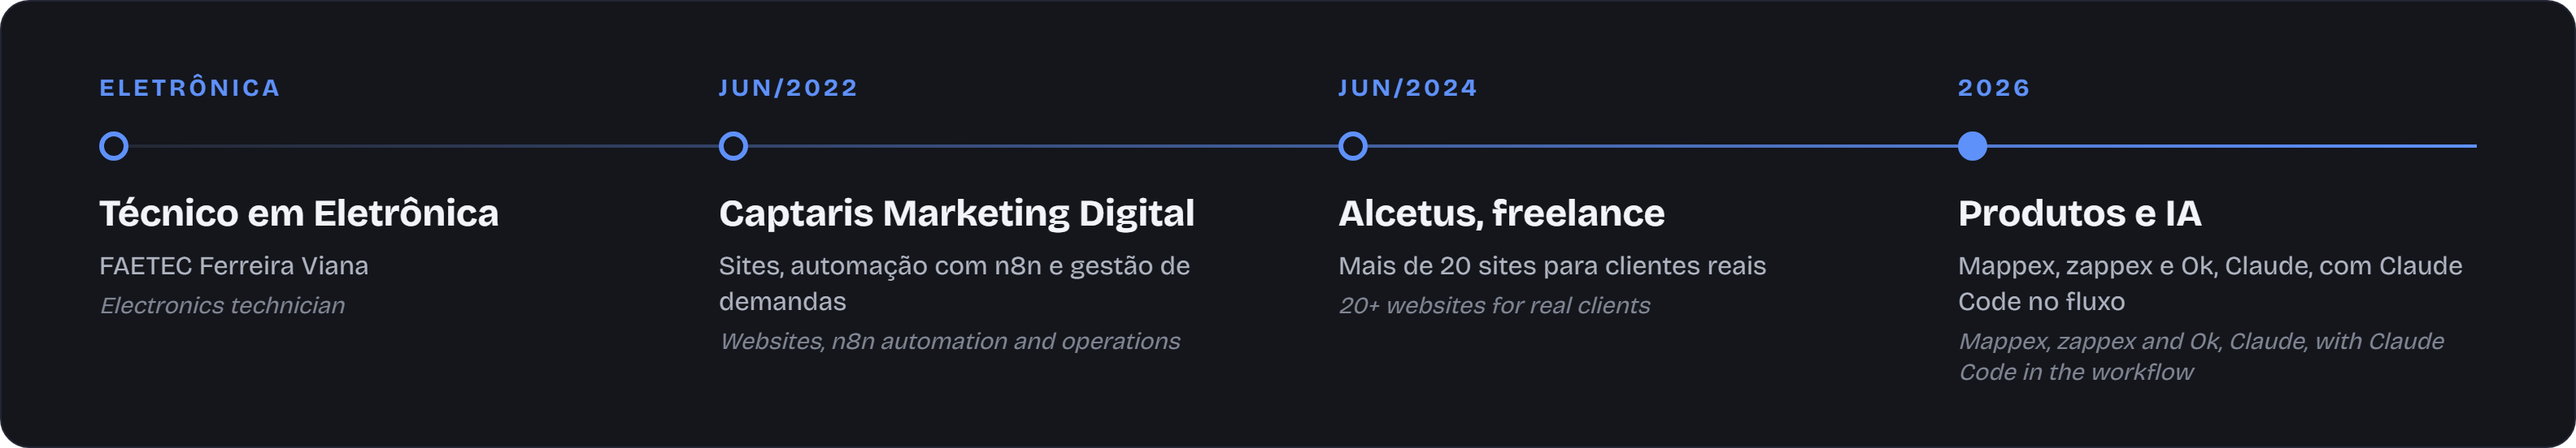
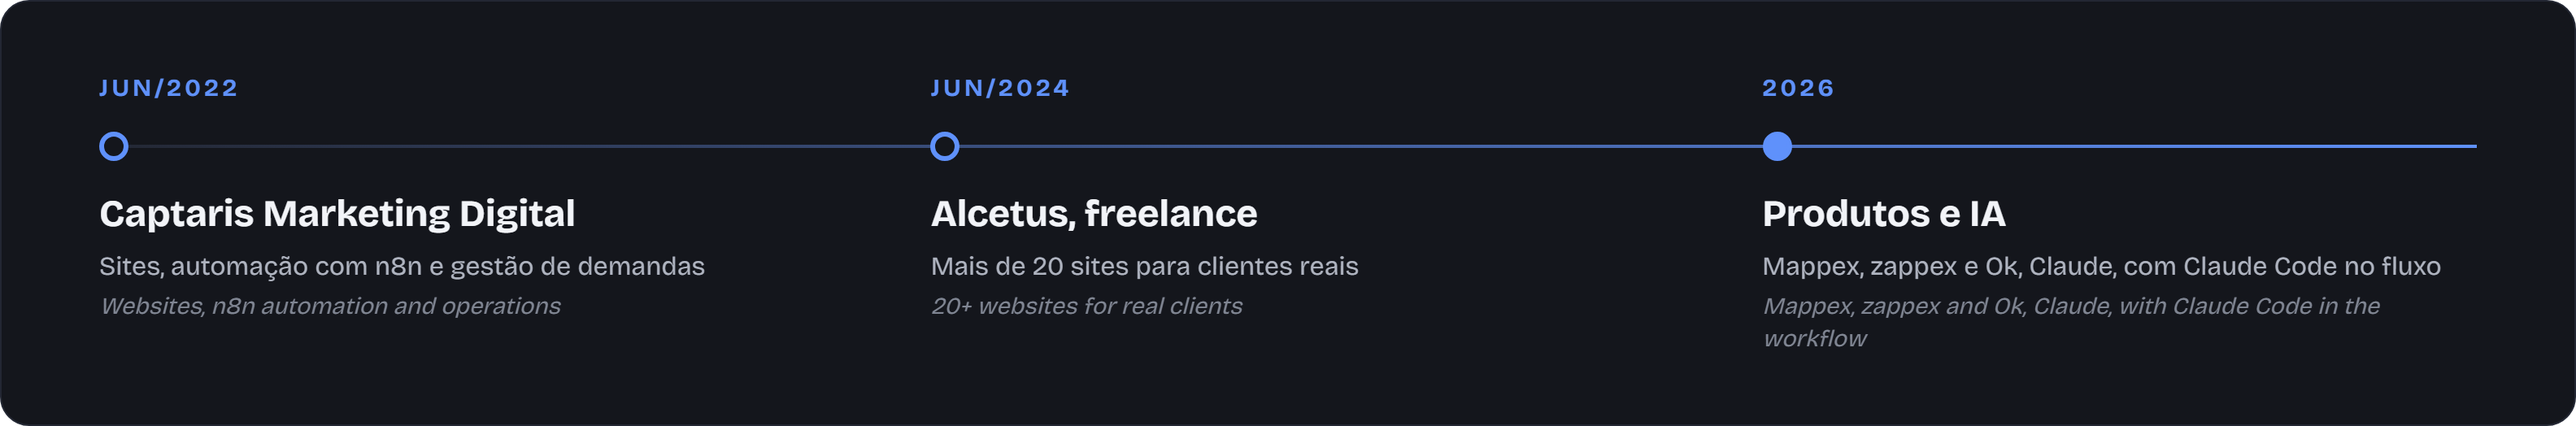
docs: perfil em texto clicavel com chips soltos, sem a etapa de eletronica

diff --git a/README.md b/README.md
@@ -7,22 +7,29 @@
 </p>
 
 <p align="center">
-  <img src="./assets/numbers.png" alt="17 mil testes automatizados, 20 cursos oficiais da Anthropic, 20 sites entregues e 1 extensão na Chrome Web Store" width="100%">
-</p>
-
-<p align="center">
-  <a href="https://joaocouto.alcetus.com">joaocouto.alcetus.com</a> &nbsp;·&nbsp;
-  <a href="mailto:joaopecouto77@gmail.com">joaopecouto77@gmail.com</a> &nbsp;·&nbsp;
-  <a href="https://chromewebstore.google.com/detail/gravador-de-reuni%C3%A3o-%E2%86%92-mp3/oblcnhlpjjipaodcifnignjfdbgmmkdg?hl=pt-br">Chrome Web Store</a>
+  <a href="https://joaocouto.alcetus.com"><img src="./assets/chips/contact-site.png" alt="Site: joaocouto.alcetus.com" height="34"></a>
+  <a href="mailto:joaopecouto77@gmail.com"><img src="./assets/chips/contact-email.png" alt="E-mail: joaopecouto77@gmail.com" height="34"></a>
+  <a href="https://chromewebstore.google.com/detail/gravador-de-reuni%C3%A3o-%E2%86%92-mp3/oblcnhlpjjipaodcifnignjfdbgmmkdg?hl=pt-br"><img src="./assets/chips/contact-chrome.png" alt="Chrome Web Store" height="34"></a>
 </p>
 
 ---
 
 ## Português
 
+**Desenvolvedor Web · React, TypeScript, Node.js, NestJS · IA aplicada (Claude Code, MCP)**
+
+<table>
+<tr>
+<td align="center" width="25%"><h2>17 mil+</h2>testes automatizados</td>
+<td align="center" width="25%"><h2>20+</h2>cursos oficiais da Anthropic</td>
+<td align="center" width="25%"><h2>20+</h2>sites entregues a clientes</td>
+<td align="center" width="25%"><h2>1</h2>extensão na Chrome Web Store</td>
+</tr>
+</table>
+
 ### Minha história
 
-Comecei pela eletrônica: sou técnico formado pela FAETEC Ferreira Viana. Em junho de 2022 entrei na Captaris, uma agência de marketing digital, para fazer sites. Pouco depois também automatizava o fluxo de demandas com n8n e ClickUp e coordenava o trabalho entre Jurídico, Financeiro e Operacional. Os sites entregues vieram com +20% na receita mensal, e a automação trouxe +45% de eficiência aos processos.
+Em junho de 2022 entrei na Captaris, uma agência de marketing digital, para fazer sites. Pouco depois também automatizava o fluxo de demandas com n8n e ClickUp e coordenava o trabalho entre Jurídico, Financeiro e Operacional. Os sites entregues vieram com +20% na receita mensal, e a automação trouxe +45% de eficiência aos processos.
 
 Em junho de 2024 passei a atender clientes por conta própria, sob a marca Alcetus: mais de 20 sites para indústria, setor automotivo, turismo, advocacia e comércio, do desenho ao deploy em VPS.
 
@@ -33,35 +40,86 @@ A IA nos meus produtos tem limite explícito. No Mappex, o modelo só escolhe en
 Hoje estou no 3º trimestre de Análise e Desenvolvimento de Sistemas e aberto a oportunidades como desenvolvedor.
 
 <p align="center">
-  <img src="./assets/timeline.png" alt="Linha do tempo: técnico em eletrônica, Captaris em 2022, Alcetus freelance em 2024, produtos e IA em 2026" width="100%">
+  <img src="./assets/timeline.png" alt="Linha do tempo: Captaris em 2022, Alcetus freelance em 2024, produtos e IA em 2026" width="100%">
 </p>
 
 ### Projetos
 
 <table>
 <tr>
-<td width="50%"><a href="https://github.com/Joaopecouto/mappex-case"><img src="./assets/card-mappex.png" alt="Mappex: SaaS de leads B2B com CRM no WhatsApp" width="100%"></a></td>
-<td width="50%"><a href="https://github.com/Joaopecouto/zappex-case"><img src="./assets/card-zappex.png" alt="zappex: CRM Kanban dentro do WhatsApp Web" width="100%"></a></td>
+<td width="50%" valign="top">
+<b><a href="https://github.com/Joaopecouto/mappex-case">Mappex, Gerador de Leads</a></b> &nbsp;<sub>Demo ao vivo</sub><br>
+SaaS de leads B2B com CRM no WhatsApp, mapa interativo e uma IA que só escolhe entre bairros reais do OpenStreetMap. Reescrito de Supabase para backend próprio em NestJS.<br><br>
+<img src="./assets/chips/react.png" alt="React" height="28"> <img src="./assets/chips/typescript.png" alt="TypeScript" height="28"> <img src="./assets/chips/nestjs.png" alt="NestJS" height="28"> <img src="./assets/chips/postgresql.png" alt="PostgreSQL" height="28"> <img src="./assets/chips/leaflet.png" alt="Leaflet" height="28"><br><br>
+<a href="https://github.com/Joaopecouto/mappex-case">Case study</a> · <a href="http://gerador-de-leads.alcetus.com">Demo</a>
+</td>
+<td width="50%" valign="top">
+<b><a href="https://github.com/Joaopecouto/zappex-case">zappex</a></b> &nbsp;<sub>Case study</sub><br>
+CRM Kanban dentro do WhatsApp Web, em extensão do Chrome com backend NestJS, cobrança no Stripe e mais de 6 mil testes automatizados.<br><br>
+<img src="./assets/chips/react.png" alt="React" height="28"> <img src="./assets/chips/typescript.png" alt="TypeScript" height="28"> <img src="./assets/chips/nestjs.png" alt="NestJS" height="28"> <img src="./assets/chips/stripe.png" alt="Stripe" height="28"> <img src="./assets/chips/chrome-extension.png" alt="Chrome extension" height="28"> <img src="./assets/chips/sentry.png" alt="Sentry" height="28"><br><br>
+<a href="https://github.com/Joaopecouto/zappex-case">Case study</a>
+</td>
 </tr>
 <tr>
-<td width="50%"><a href="https://github.com/Joaopecouto/ok-claude-case"><img src="./assets/card-ok-claude.png" alt="Ok, Claude: agenda desktop com assistente de IA" width="100%"></a></td>
-<td width="50%"><a href="https://github.com/Joaopecouto/TeamsAudioRecorder"><img src="./assets/card-gravador.png" alt="Gravador de Reunião: extensão para Meet e Teams" width="100%"></a></td>
+<td width="50%" valign="top">
+<b><a href="https://github.com/Joaopecouto/ok-claude-case">Ok, Claude</a></b> &nbsp;<sub>Em desenvolvimento</sub><br>
+Agenda desktop para Windows com assistente de IA que não inventa informação: fora do app, só com fonte e link. Contrato Rust e TypeScript gerado e SQLite com backup.<br><br>
+<img src="./assets/chips/tauri.png" alt="Tauri" height="28"> <img src="./assets/chips/rust.png" alt="Rust" height="28"> <img src="./assets/chips/react.png" alt="React" height="28"> <img src="./assets/chips/sqlite.png" alt="SQLite" height="28"> <img src="./assets/chips/claude-api.png" alt="Claude API" height="28"><br><br>
+<a href="https://github.com/Joaopecouto/ok-claude-case">Case study</a>
+</td>
+<td width="50%" valign="top">
+<b><a href="https://github.com/Joaopecouto/TeamsAudioRecorder">Gravador de Reunião</a></b> &nbsp;<sub>Chrome Web Store</sub><br>
+Extensão que grava o áudio, transcreve com identificação de quem fala e resume reuniões do Google Meet e do Microsoft Teams. O áudio fica na máquina.<br><br>
+<img src="./assets/chips/manifest-v3.png" alt="Manifest V3" height="28"> <img src="./assets/chips/javascript.png" alt="JavaScript" height="28"> <img src="./assets/chips/gemini.png" alt="Gemini API" height="28"><br><br>
+<a href="https://github.com/Joaopecouto/TeamsAudioRecorder">Código</a> · <a href="https://chromewebstore.google.com/detail/gravador-de-reuni%C3%A3o-%E2%86%92-mp3/oblcnhlpjjipaodcifnignjfdbgmmkdg?hl=pt-br">Chrome Web Store</a>
+</td>
 </tr>
 <tr>
-<td width="50%"><a href="https://github.com/Joaopecouto/gym-alcetus"><img src="./assets/card-gym.png" alt="Gym Alcetus: app de treino PWA" width="100%"></a></td>
-<td width="50%"><a href="https://github.com/Joaopecouto/petala-dourada"><img src="./assets/card-petala.png" alt="Pétala Dourada: e-commerce de moda feminina" width="100%"></a></td>
+<td width="50%" valign="top">
+<b><a href="https://github.com/Joaopecouto/gym-alcetus">Gym Alcetus</a></b> &nbsp;<sub>Demo ao vivo</sub><br>
+App de treino (PWA) com métricas, gráficos e heatmap muscular.<br><br>
+<img src="./assets/chips/react.png" alt="React" height="28"> <img src="./assets/chips/fastify.png" alt="Fastify" height="28"> <img src="./assets/chips/sqlite.png" alt="SQLite" height="28"> <img src="./assets/chips/typescript.png" alt="TypeScript" height="28"><br><br>
+<a href="https://github.com/Joaopecouto/gym-alcetus">Código</a> · <a href="https://gym.alcetus.com">Demo</a>
+</td>
+<td width="50%" valign="top">
+<b><a href="https://github.com/Joaopecouto/petala-dourada">Pétala Dourada</a></b> &nbsp;<sub>Demo</sub><br>
+E-commerce de moda feminina.<br><br>
+<img src="./assets/chips/nextjs.png" alt="Next.js" height="28"> <img src="./assets/chips/react.png" alt="React" height="28"> <img src="./assets/chips/woocommerce.png" alt="WooCommerce" height="28"><br><br>
+<a href="https://github.com/Joaopecouto/petala-dourada">Case study</a> · <a href="https://dev.petaladourada.com.br">Demo</a>
+</td>
 </tr>
 <tr>
-<td width="50%"><a href="https://github.com/Joaopecouto/sites-clientes"><img src="./assets/card-sites.png" alt="Sites de clientes: mais de 20 sites entregues" width="100%"></a></td>
-<td width="50%"><a href="https://github.com/Joaopecouto/DevRecap"><img src="./assets/card-devrecap.png" alt="DevRecap: app de bandeja do Windows que resume o dia de código" width="100%"></a></td>
+<td width="50%" valign="top">
+<b><a href="https://github.com/Joaopecouto/sites-clientes">Sites de clientes</a></b> &nbsp;<sub>Portfólio</sub><br>
+Mais de 20 sites para indústria, automotivo, turismo, advocacia e comércio: Vetek, Catita, CEMC, MPA Máquinas, Rebecca Amorim e outros.<br><br>
+<img src="./assets/chips/wordpress.png" alt="WordPress" height="28"> <img src="./assets/chips/elementor.png" alt="Elementor" height="28"> <img src="./assets/chips/html5.png" alt="HTML5" height="28"> <img src="./assets/chips/figma.png" alt="Figma" height="28"><br><br>
+<a href="https://github.com/Joaopecouto/sites-clientes">Ver sites</a> · <a href="https://joaocouto.alcetus.com">Portfólio</a>
+</td>
+<td width="50%" valign="top">
+<b><a href="https://github.com/Joaopecouto/DevRecap">DevRecap</a></b> &nbsp;<sub>Código aberto</sub><br>
+App de bandeja do Windows que varre os repositórios no fim do dia e resume o que foi feito.<br><br>
+<img src="./assets/chips/python.png" alt="Python" height="28"> <img src="./assets/chips/pyinstaller.png" alt="PyInstaller" height="28"><br><br>
+<a href="https://github.com/Joaopecouto/DevRecap">Código</a>
+</td>
 </tr>
 </table>
 
-Demos: [Mappex](http://gerador-de-leads.alcetus.com) · [Gym Alcetus](https://gym.alcetus.com) · [Pétala Dourada](https://dev.petaladourada.com.br) · [Gravador de Reunião na Chrome Web Store](https://chromewebstore.google.com/detail/gravador-de-reuni%C3%A3o-%E2%86%92-mp3/oblcnhlpjjipaodcifnignjfdbgmmkdg?hl=pt-br)
-
 ### Tecnologias
 
-<img src="./assets/stack.png" alt="Tecnologias: Claude Code, MCP, Claude API, Gemini API, React, TypeScript, Tailwind CSS, Node.js, NestJS, Fastify, Prisma, PostgreSQL, SQLite, Redis, Stripe, Rust, Tauri, Vitest, Playwright, Docker, Nginx, Cloudflare, n8n, WordPress, Elementor, Figma" width="100%">
+**IA**<br>
+<img src="./assets/chips/claude.png" alt="Claude Code" height="32"> <img src="./assets/chips/mcp.png" alt="MCP" height="32"> <img src="./assets/chips/claude-api.png" alt="Claude API" height="32"> <img src="./assets/chips/gemini.png" alt="Gemini API" height="32"> <img src="./assets/chips/groq.png" alt="Groq" height="32">
+
+**Front-end**<br>
+<img src="./assets/chips/react.png" alt="React" height="32"> <img src="./assets/chips/typescript.png" alt="TypeScript" height="32"> <img src="./assets/chips/javascript.png" alt="JavaScript" height="32"> <img src="./assets/chips/tailwind.png" alt="Tailwind CSS" height="32"> <img src="./assets/chips/vite.png" alt="Vite" height="32"> <img src="./assets/chips/html5.png" alt="HTML5" height="32"> <img src="./assets/chips/nextjs.png" alt="Next.js" height="32">
+
+**Back-end e desktop**<br>
+<img src="./assets/chips/nodejs.png" alt="Node.js" height="32"> <img src="./assets/chips/nestjs.png" alt="NestJS" height="32"> <img src="./assets/chips/fastify.png" alt="Fastify" height="32"> <img src="./assets/chips/prisma.png" alt="Prisma" height="32"> <img src="./assets/chips/postgresql.png" alt="PostgreSQL" height="32"> <img src="./assets/chips/sqlite.png" alt="SQLite" height="32"> <img src="./assets/chips/redis.png" alt="Redis" height="32"> <img src="./assets/chips/stripe.png" alt="Stripe" height="32"> <img src="./assets/chips/rust.png" alt="Rust" height="32"> <img src="./assets/chips/tauri.png" alt="Tauri" height="32"> <img src="./assets/chips/python.png" alt="Python" height="32">
+
+**Testes e DevOps**<br>
+<img src="./assets/chips/vitest.png" alt="Vitest" height="32"> <img src="./assets/chips/playwright.png" alt="Playwright" height="32"> <img src="./assets/chips/github-actions.png" alt="GitHub Actions" height="32"> <img src="./assets/chips/docker.png" alt="Docker" height="32"> <img src="./assets/chips/nginx.png" alt="Nginx" height="32"> <img src="./assets/chips/cloudflare.png" alt="Cloudflare" height="32"> <img src="./assets/chips/git.png" alt="Git" height="32"> <img src="./assets/chips/n8n.png" alt="n8n" height="32"> <img src="./assets/chips/sentry.png" alt="Sentry" height="32">
+
+**Sites**<br>
+<img src="./assets/chips/wordpress.png" alt="WordPress" height="32"> <img src="./assets/chips/elementor.png" alt="Elementor" height="32"> <img src="./assets/chips/figma.png" alt="Figma" height="32">
 
 ### Experiência
 
@@ -74,17 +132,30 @@ Demos: [Mappex](http://gerador-de-leads.alcetus.com) · [Gym Alcetus](https://gy
 - **Anthropic, mais de 20 cursos oficiais (2026):** Claude 101, Claude Code 101, Claude Code in action, Claude Cowork, Claude Tag, Claude Platform 101, Model Context Protocol (introdução e tópicos avançados), Introduction to subagents, Introduction to agent skills, Building with the Claude API, Tool use with the Messages API, Introduction to evals, Claude with Amazon Bedrock, Claude on Google Cloud, AI Fluency, Building effective human-agent teams, The AI-native SDLC playbook.
 - **Outros:** Modelo de Governança e Gestão (gestaopublicagov.br, 2026), Produtividade e Organização e Técnicas e Ferramentas para Projetos (Descomplica) e Comunidade Celados.
 
-### Contato
-
-[joaocouto.alcetus.com](https://joaocouto.alcetus.com) · [joaopecouto77@gmail.com](mailto:joaopecouto77@gmail.com) · Rio de Janeiro, Brasil
+<p align="center">
+  <a href="https://joaocouto.alcetus.com"><img src="./assets/chips/contact-site.png" alt="Site: joaocouto.alcetus.com" height="34"></a>
+  <a href="mailto:joaopecouto77@gmail.com"><img src="./assets/chips/contact-email.png" alt="E-mail: joaopecouto77@gmail.com" height="34"></a>
+  <a href="https://chromewebstore.google.com/detail/gravador-de-reuni%C3%A3o-%E2%86%92-mp3/oblcnhlpjjipaodcifnignjfdbgmmkdg?hl=pt-br"><img src="./assets/chips/contact-chrome.png" alt="Chrome Web Store" height="34"></a>
+</p>
 
 ---
 
 ## English
 
+**Web Developer · React, TypeScript, Node.js, NestJS · Applied AI (Claude Code, MCP)**
+
+<table>
+<tr>
+<td align="center" width="25%"><h2>17k+</h2>automated tests</td>
+<td align="center" width="25%"><h2>20+</h2>official Anthropic courses</td>
+<td align="center" width="25%"><h2>20+</h2>client websites delivered</td>
+<td align="center" width="25%"><h2>1</h2>Chrome Web Store extension</td>
+</tr>
+</table>
+
 ### My story
 
-I started in electronics: I am a certified technician from FAETEC Ferreira Viana. In June 2022 I joined Captaris, a digital marketing agency, to build websites. Soon after I was also automating the request workflow with n8n and ClickUp and coordinating work between the Legal, Finance and Operations teams. The websites shipped with +20% monthly revenue, and the automation brought +45% efficiency to the processes.
+In June 2022 I joined Captaris, a digital marketing agency, to build websites. Soon after I was also automating the request workflow with n8n and ClickUp and coordinating work between the Legal, Finance and Operations teams. The websites shipped with +20% monthly revenue, and the automation brought +45% efficiency to the processes.
 
 In June 2024 I started serving clients on my own under the Alcetus brand: 20+ websites for industrial, automotive, tourism, law and retail businesses, from design to VPS deployment.
 
@@ -94,36 +165,83 @@ AI in my products has explicit limits. In Mappex, the model only picks from real
 
 Today I am in the 3rd term of Systems Analysis and Development and open to opportunities as a developer.
 
-<p align="center">
-  <img src="./assets/timeline.png" alt="Timeline: electronics technician, Captaris in 2022, Alcetus freelance in 2024, products and AI in 2026" width="100%">
-</p>
-
 ### Projects
 
 <table>
 <tr>
-<td width="50%"><a href="https://github.com/Joaopecouto/mappex-case"><img src="./assets/card-mappex.png" alt="Mappex: B2B lead-gen SaaS with WhatsApp CRM" width="100%"></a></td>
-<td width="50%"><a href="https://github.com/Joaopecouto/zappex-case"><img src="./assets/card-zappex.png" alt="zappex: Kanban CRM inside WhatsApp Web" width="100%"></a></td>
+<td width="50%" valign="top">
+<b><a href="https://github.com/Joaopecouto/mappex-case">Mappex, Lead Generator</a></b> &nbsp;<sub>Live demo</sub><br>
+B2B lead-gen SaaS with a WhatsApp CRM, an interactive map and an AI that only picks from real OpenStreetMap neighborhoods. Rewritten from Supabase to its own NestJS backend.<br><br>
+<img src="./assets/chips/react.png" alt="React" height="28"> <img src="./assets/chips/typescript.png" alt="TypeScript" height="28"> <img src="./assets/chips/nestjs.png" alt="NestJS" height="28"> <img src="./assets/chips/postgresql.png" alt="PostgreSQL" height="28"> <img src="./assets/chips/leaflet.png" alt="Leaflet" height="28"><br><br>
+<a href="https://github.com/Joaopecouto/mappex-case">Case study</a> · <a href="http://gerador-de-leads.alcetus.com">Demo</a>
+</td>
+<td width="50%" valign="top">
+<b><a href="https://github.com/Joaopecouto/zappex-case">zappex</a></b> &nbsp;<sub>Case study</sub><br>
+Kanban CRM inside WhatsApp Web, built as a Chrome extension with a NestJS backend, Stripe billing and 6,000+ automated tests.<br><br>
+<img src="./assets/chips/react.png" alt="React" height="28"> <img src="./assets/chips/typescript.png" alt="TypeScript" height="28"> <img src="./assets/chips/nestjs.png" alt="NestJS" height="28"> <img src="./assets/chips/stripe.png" alt="Stripe" height="28"> <img src="./assets/chips/chrome-extension.png" alt="Chrome extension" height="28"> <img src="./assets/chips/sentry.png" alt="Sentry" height="28"><br><br>
+<a href="https://github.com/Joaopecouto/zappex-case">Case study</a>
+</td>
 </tr>
 <tr>
-<td width="50%"><a href="https://github.com/Joaopecouto/ok-claude-case"><img src="./assets/card-ok-claude.png" alt="Ok, Claude: desktop planner with an AI assistant" width="100%"></a></td>
-<td width="50%"><a href="https://github.com/Joaopecouto/TeamsAudioRecorder"><img src="./assets/card-gravador.png" alt="Meeting Recorder: extension for Meet and Teams" width="100%"></a></td>
+<td width="50%" valign="top">
+<b><a href="https://github.com/Joaopecouto/ok-claude-case">Ok, Claude</a></b> &nbsp;<sub>In development</sub><br>
+Windows desktop planner with an AI assistant that does not make things up: outside the app, only with a source and a link. Generated Rust and TypeScript contract, SQLite with backups.<br><br>
+<img src="./assets/chips/tauri.png" alt="Tauri" height="28"> <img src="./assets/chips/rust.png" alt="Rust" height="28"> <img src="./assets/chips/react.png" alt="React" height="28"> <img src="./assets/chips/sqlite.png" alt="SQLite" height="28"> <img src="./assets/chips/claude-api.png" alt="Claude API" height="28"><br><br>
+<a href="https://github.com/Joaopecouto/ok-claude-case">Case study</a>
+</td>
+<td width="50%" valign="top">
+<b><a href="https://github.com/Joaopecouto/TeamsAudioRecorder">Meeting Recorder</a></b> &nbsp;<sub>Chrome Web Store</sub><br>
+Extension that records audio, transcribes with speaker identification and summarizes Google Meet and Microsoft Teams meetings. Audio stays on your machine.<br><br>
+<img src="./assets/chips/manifest-v3.png" alt="Manifest V3" height="28"> <img src="./assets/chips/javascript.png" alt="JavaScript" height="28"> <img src="./assets/chips/gemini.png" alt="Gemini API" height="28"><br><br>
+<a href="https://github.com/Joaopecouto/TeamsAudioRecorder">Code</a> · <a href="https://chromewebstore.google.com/detail/gravador-de-reuni%C3%A3o-%E2%86%92-mp3/oblcnhlpjjipaodcifnignjfdbgmmkdg?hl=en">Chrome Web Store</a>
+</td>
 </tr>
 <tr>
-<td width="50%"><a href="https://github.com/Joaopecouto/gym-alcetus"><img src="./assets/card-gym.png" alt="Gym Alcetus: workout tracker PWA" width="100%"></a></td>
-<td width="50%"><a href="https://github.com/Joaopecouto/petala-dourada"><img src="./assets/card-petala.png" alt="Pétala Dourada: women's fashion e-commerce" width="100%"></a></td>
+<td width="50%" valign="top">
+<b><a href="https://github.com/Joaopecouto/gym-alcetus">Gym Alcetus</a></b> &nbsp;<sub>Live demo</sub><br>
+Workout tracker PWA with metrics, charts and a muscle heatmap.<br><br>
+<img src="./assets/chips/react.png" alt="React" height="28"> <img src="./assets/chips/fastify.png" alt="Fastify" height="28"> <img src="./assets/chips/sqlite.png" alt="SQLite" height="28"> <img src="./assets/chips/typescript.png" alt="TypeScript" height="28"><br><br>
+<a href="https://github.com/Joaopecouto/gym-alcetus">Code</a> · <a href="https://gym.alcetus.com">Demo</a>
+</td>
+<td width="50%" valign="top">
+<b><a href="https://github.com/Joaopecouto/petala-dourada">Pétala Dourada</a></b> &nbsp;<sub>Demo</sub><br>
+Women's fashion e-commerce.<br><br>
+<img src="./assets/chips/nextjs.png" alt="Next.js" height="28"> <img src="./assets/chips/react.png" alt="React" height="28"> <img src="./assets/chips/woocommerce.png" alt="WooCommerce" height="28"><br><br>
+<a href="https://github.com/Joaopecouto/petala-dourada">Case study</a> · <a href="https://dev.petaladourada.com.br">Demo</a>
+</td>
 </tr>
 <tr>
-<td width="50%"><a href="https://github.com/Joaopecouto/sites-clientes"><img src="./assets/card-sites.png" alt="Client websites: 20+ websites delivered" width="100%"></a></td>
-<td width="50%"><a href="https://github.com/Joaopecouto/DevRecap"><img src="./assets/card-devrecap.png" alt="DevRecap: Windows tray app that summarizes your coding day" width="100%"></a></td>
+<td width="50%" valign="top">
+<b><a href="https://github.com/Joaopecouto/sites-clientes">Client websites</a></b> &nbsp;<sub>Portfolio</sub><br>
+20+ websites for industry, automotive, tourism, legal and retail: Vetek, Catita, CEMC, MPA Máquinas, Rebecca Amorim and more.<br><br>
+<img src="./assets/chips/wordpress.png" alt="WordPress" height="28"> <img src="./assets/chips/elementor.png" alt="Elementor" height="28"> <img src="./assets/chips/html5.png" alt="HTML5" height="28"> <img src="./assets/chips/figma.png" alt="Figma" height="28"><br><br>
+<a href="https://github.com/Joaopecouto/sites-clientes">See the sites</a> · <a href="https://joaocouto.alcetus.com">Portfolio</a>
+</td>
+<td width="50%" valign="top">
+<b><a href="https://github.com/Joaopecouto/DevRecap">DevRecap</a></b> &nbsp;<sub>Open source</sub><br>
+Windows tray app that scans your repositories at the end of the day and summarizes what you did.<br><br>
+<img src="./assets/chips/python.png" alt="Python" height="28"> <img src="./assets/chips/pyinstaller.png" alt="PyInstaller" height="28"><br><br>
+<a href="https://github.com/Joaopecouto/DevRecap">Code</a>
+</td>
 </tr>
 </table>
 
-Demos: [Mappex](http://gerador-de-leads.alcetus.com) · [Gym Alcetus](https://gym.alcetus.com) · [Pétala Dourada](https://dev.petaladourada.com.br) · [Meeting Recorder on the Chrome Web Store](https://chromewebstore.google.com/detail/gravador-de-reuni%C3%A3o-%E2%86%92-mp3/oblcnhlpjjipaodcifnignjfdbgmmkdg?hl=en)
-
 ### Tech stack
 
-<img src="./assets/stack.png" alt="Tech stack: Claude Code, MCP, Claude API, Gemini API, React, TypeScript, Tailwind CSS, Node.js, NestJS, Fastify, Prisma, PostgreSQL, SQLite, Redis, Stripe, Rust, Tauri, Vitest, Playwright, Docker, Nginx, Cloudflare, n8n, WordPress, Elementor, Figma" width="100%">
+**AI**<br>
+<img src="./assets/chips/claude.png" alt="Claude Code" height="32"> <img src="./assets/chips/mcp.png" alt="MCP" height="32"> <img src="./assets/chips/claude-api.png" alt="Claude API" height="32"> <img src="./assets/chips/gemini.png" alt="Gemini API" height="32"> <img src="./assets/chips/groq.png" alt="Groq" height="32">
+
+**Front-end**<br>
+<img src="./assets/chips/react.png" alt="React" height="32"> <img src="./assets/chips/typescript.png" alt="TypeScript" height="32"> <img src="./assets/chips/javascript.png" alt="JavaScript" height="32"> <img src="./assets/chips/tailwind.png" alt="Tailwind CSS" height="32"> <img src="./assets/chips/vite.png" alt="Vite" height="32"> <img src="./assets/chips/html5.png" alt="HTML5" height="32"> <img src="./assets/chips/nextjs.png" alt="Next.js" height="32">
+
+**Back-end and desktop**<br>
+<img src="./assets/chips/nodejs.png" alt="Node.js" height="32"> <img src="./assets/chips/nestjs.png" alt="NestJS" height="32"> <img src="./assets/chips/fastify.png" alt="Fastify" height="32"> <img src="./assets/chips/prisma.png" alt="Prisma" height="32"> <img src="./assets/chips/postgresql.png" alt="PostgreSQL" height="32"> <img src="./assets/chips/sqlite.png" alt="SQLite" height="32"> <img src="./assets/chips/redis.png" alt="Redis" height="32"> <img src="./assets/chips/stripe.png" alt="Stripe" height="32"> <img src="./assets/chips/rust.png" alt="Rust" height="32"> <img src="./assets/chips/tauri.png" alt="Tauri" height="32"> <img src="./assets/chips/python.png" alt="Python" height="32">
+
+**Testing and DevOps**<br>
+<img src="./assets/chips/vitest.png" alt="Vitest" height="32"> <img src="./assets/chips/playwright.png" alt="Playwright" height="32"> <img src="./assets/chips/github-actions.png" alt="GitHub Actions" height="32"> <img src="./assets/chips/docker.png" alt="Docker" height="32"> <img src="./assets/chips/nginx.png" alt="Nginx" height="32"> <img src="./assets/chips/cloudflare.png" alt="Cloudflare" height="32"> <img src="./assets/chips/git.png" alt="Git" height="32"> <img src="./assets/chips/n8n.png" alt="n8n" height="32"> <img src="./assets/chips/sentry.png" alt="Sentry" height="32">
+
+**Websites**<br>
+<img src="./assets/chips/wordpress.png" alt="WordPress" height="32"> <img src="./assets/chips/elementor.png" alt="Elementor" height="32"> <img src="./assets/chips/figma.png" alt="Figma" height="32">
 
 ### Experience
 
@@ -136,6 +254,8 @@ Demos: [Mappex](http://gerador-de-leads.alcetus.com) · [Gym Alcetus](https://gy
 - **Anthropic, 20+ official courses (2026):** Claude 101, Claude Code 101, Claude Code in action, Claude Cowork, Claude Tag, Claude Platform 101, Model Context Protocol (introduction and advanced topics), Introduction to subagents, Introduction to agent skills, Building with the Claude API, Tool use with the Messages API, Introduction to evals, Claude with Amazon Bedrock, Claude on Google Cloud, AI Fluency, Building effective human-agent teams, The AI-native SDLC playbook.
 - **Other:** Governance and Management Model (gestaopublicagov.br, 2026), Productivity and Organization and Project Tools and Techniques (Descomplica), and Comunidade Celados.
 
-### Contact
-
-[joaocouto.alcetus.com](https://joaocouto.alcetus.com) · [joaopecouto77@gmail.com](mailto:joaopecouto77@gmail.com) · Rio de Janeiro, Brazil
+<p align="center">
+  <a href="https://joaocouto.alcetus.com"><img src="./assets/chips/contact-site.png" alt="Site: joaocouto.alcetus.com" height="34"></a>
+  <a href="mailto:joaopecouto77@gmail.com"><img src="./assets/chips/contact-email.png" alt="E-mail: joaopecouto77@gmail.com" height="34"></a>
+  <a href="https://chromewebstore.google.com/detail/gravador-de-reuni%C3%A3o-%E2%86%92-mp3/oblcnhlpjjipaodcifnignjfdbgmmkdg?hl=en"><img src="./assets/chips/contact-chrome.png" alt="Chrome Web Store" height="34"></a>
+</p>
